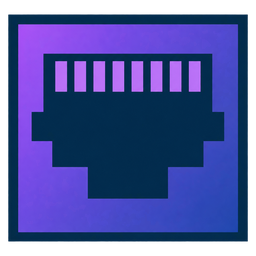
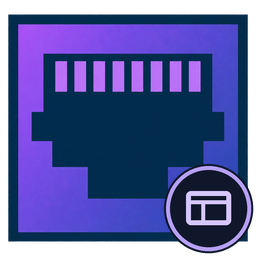
Add package badges to SocketJack and SocketJack.WPF

Changed region(s): [[0.625, 0.625, 1.0, 1.0]]

diff --git a/tools/Export-BrandIcons.py b/tools/Export-BrandIcons.py
@@ -1,6 +1,6 @@
 """Export SocketJack's approved transparent master into PNG and ICO assets.
 
-Requires Python 3 and Pillow. Only dimensions and file formats are changed.
+Requires Python 3 and Pillow. NuGet icons also carry a package badge.
 """
 
 import argparse
@@ -9,14 +9,14 @@ import json
 import struct
 from pathlib import Path
 
-from PIL import Image
+from PIL import Image, ImageDraw
 
 
 PNG_SIZES = (16, 24, 32, 48, 64, 128, 180, 192, 256, 512, 1024)
 ICO_SIZES = (16, 24, 32, 48, 64, 128, 256)
 
 
-def export(master_path: Path, output: Path) -> None:
+def load_master(master_path: Path) -> Image.Image:
     with Image.open(master_path) as source:
         if source.width != source.height or "A" not in source.getbands():
             raise ValueError("The master must be a square PNG with an alpha channel.")
@@ -24,6 +24,11 @@ def export(master_path: Path, output: Path) -> None:
         master.info.clear()
     if master.getchannel("A").getextrema()[0] != 0:
         raise ValueError("The master must retain a transparent background.")
+    return master
+
+
+def export(master_path: Path, output: Path) -> None:
+    master = load_master(master_path)
     output.mkdir(parents=True, exist_ok=True)
     files = []
     for size in PNG_SIZES:
@@ -74,14 +79,49 @@ def export(master_path: Path, output: Path) -> None:
     print(f"Exported {len(files)} icon files and manifest.json.")
 
 
+def export_package_icons(master_path: Path, repo: Path) -> None:
+    size, scale = 256, 4
+    master = load_master(master_path).resize((size, size), Image.Resampling.LANCZOS)
+    glyph = "#D5C7FF"
+
+    def scaled(box):
+        return tuple(value * scale for value in box)
+
+    for package in ("SocketJack", "SocketJack.WPF"):
+        badge = Image.new("RGBA", (size * scale, size * scale))
+        draw = ImageDraw.Draw(badge)
+        draw.ellipse(scaled((164, 164, 253, 253)), fill="#11172B")
+        draw.ellipse(scaled((166, 166, 251, 251)), outline="#B6A1F4", width=4 * scale)
+        if package == "SocketJack":
+            draw.line([scaled(point) for point in ((192, 219), (209, 195), (226, 219))],
+                      fill=glyph, width=5 * scale, joint="curve")
+            for x, y in ((192, 219), (209, 195), (226, 219)):
+                draw.ellipse(scaled((x - 7, y - 7, x + 7, y + 7)), fill=glyph)
+            path = repo / "SocketJack" / "SocketJackIcon.png"
+        else:
+            draw.rounded_rectangle(scaled((186, 191, 231, 225)), radius=5 * scale,
+                                   outline=glyph, width=5 * scale)
+            draw.line(scaled((188, 202, 229, 202)), fill=glyph, width=4 * scale)
+            draw.line(scaled((203, 203, 203, 223)), fill=glyph, width=4 * scale)
+            path = repo / "SocketJack.Windows" / "SocketJackWpfIcon.png"
+        icon = Image.alpha_composite(master, badge.resize((size, size), Image.Resampling.LANCZOS))
+        icon.save(path, format="PNG", optimize=True)
+        print(f"Exported {package} icon to {path}.")
+
+
 if __name__ == "__main__":
+    repo = Path(__file__).resolve().parents[1]
     parser = argparse.ArgumentParser(description=__doc__)
     parser.add_argument(
         "--master",
         type=Path,
-        default=Path(__file__).resolve().parents[1]
-        / "docs/branding/socketjack-icon-master.png",
+        default=repo / "docs/branding/socketjack-icon-master.png",
     )
-    parser.add_argument("--output", type=Path, required=True)
+    mode = parser.add_mutually_exclusive_group(required=True)
+    mode.add_argument("--output", type=Path, help="Write the PNG and ICO size exports to this directory.")
+    mode.add_argument("--package-icons", action="store_true", help="Update the checked-in NuGet package icons.")
     args = parser.parse_args()
-    export(args.master, args.output)
+    if args.package_icons:
+        export_package_icons(args.master, repo)
+    else:
+        export(args.master, args.output)

diff --git a/README.md b/README.md
@@ -1,6 +1,6 @@
 <div align="center">
 
-<img src="https://raw.githubusercontent.com/hheiroww/SocketJack/master/SocketJack/SocketJackIcon.png?v=20261023-purple1" alt="SocketJack" width="128" />
+<img src="https://raw.githubusercontent.com/hheiroww/SocketJack/master/SocketJack/SocketJackIcon.png?v=20261114-badge1" alt="SocketJack" width="128" />
 
 # ⚡ SocketJack 2026
 
@@ -28,13 +28,13 @@ SocketJack is a .NET networking library for sending typed objects, hosting HTTP 
 ## 📦 Install
 
 ```powershell
-dotnet add package SocketJack --version 2026.11.14.0
+dotnet add package SocketJack --version 2026.11.14.1
 ```
 
 | Package | Target | Purpose |
 |---|---|---|
-| **[SocketJack](https://www.nuget.org/packages/SocketJack/2026.11.14.0)** | .NET Standard 2.1 | Core networking library; this release is **2026.11.14.0**. |
-| **[SocketJack.WPF](https://www.nuget.org/packages/SocketJack.WPF/2026.11.14.0)** | Windows / WPF | Companion package for live control capture and remote input; this release is **2026.11.14.0**. |
+| **[SocketJack](https://www.nuget.org/packages/SocketJack/2026.11.14.1)** | .NET Standard 2.1 | Core networking library · **2026.11.14.1** |
+| **[SocketJack.WPF](https://www.nuget.org/packages/SocketJack.WPF/2026.11.14.1)** | Windows / WPF | Live control capture and remote input · **2026.11.14.1** |
 
 <details>
 <summary><strong>🚀 First connection — typed TCP messages</strong></summary>
@@ -79,11 +79,11 @@ Hosts can register typed request handlers and fixed HTTPS or WSS connectors. Aut
 
 This release uses the date code **year.month.day.revision**. It includes the library features below; the install command above selects this exact version.
 
-Download the verified packages and SHA-256 checksums from [GitHub Releases](https://github.com/hheiroww/SocketJack/releases/tag/v2026.11.14.0), or browse both libraries in [GitHub Packages](https://github.com/hheiroww/SocketJack/packages).
+Download the verified packages and SHA-256 checksums from [GitHub Releases](https://github.com/hheiroww/SocketJack/releases/tag/v2026.11.14.1), or browse both libraries in [GitHub Packages](https://github.com/hheiroww/SocketJack/packages).
 
 `GetOnceAsync` and `SendOnceAsync` return a single response, including redirects, so applications can validate each destination before following it. Existing redirect-following methods keep their behavior.
 
-The package and README now use the text-free SocketJack icon with a flat square frame and a restrained diagonal purple-to-dark-blue gradient.
+Version 2026.11.14.1 pairs the SocketJack logo with a networking badge for Core and a window badge for WPF.
 
 | Feature | What changed |
 |---|---|

diff --git a/SocketJack.Windows/Readme.md b/SocketJack.Windows/Readme.md
@@ -1,6 +1,6 @@
 # SocketJack.WPF 2026
 
-![SocketJack WPF Icon](https://raw.githubusercontent.com/hheiroww/SocketJack/master/SocketJack.Windows/SocketJackWpfIcon.png?v=20261023-purple1)
+![SocketJack WPF Icon](https://raw.githubusercontent.com/hheiroww/SocketJack/master/SocketJack.Windows/SocketJackWpfIcon.png?v=20261114-badge1)
 
 [![NuGet](https://img.shields.io/nuget/v/SocketJack.WPF.svg)](https://www.nuget.org/packages/SocketJack.WPF)
 [![NuGet Downloads](https://img.shields.io/nuget/dt/SocketJack.WPF.svg)](https://www.nuget.org/packages/SocketJack.WPF)
@@ -10,27 +10,27 @@ SocketJack.WPF 2026 adds live WPF control sharing, remote input, and browser-fri
 
 Share any `FrameworkElement` as a live image stream, view it from another peer, and route remote mouse, wheel, text, and keyboard input back into WPF without moving the real Windows cursor.
 
-Download the verified packages and SHA-256 checksums from [GitHub Releases](https://github.com/hheiroww/SocketJack/releases/tag/v2026.11.12.0), or browse [GitHub Packages](https://github.com/hheiroww/SocketJack/packages).
+Download the verified packages and SHA-256 checksums from [GitHub Releases](https://github.com/hheiroww/SocketJack/releases/tag/v2026.11.14.1), or browse [GitHub Packages](https://github.com/hheiroww/SocketJack/packages).
 
 <a id="versions"></a>
 ## #Versions
 
 | Package / surface | Version | Target |
 |---|---:|---|
-| [`SocketJack.WPF`](https://www.nuget.org/packages/SocketJack.WPF) | `2026.11.12.0` | `net8.0-windows7.0`, `net10.0-windows7.0` |
-| [`SocketJack`](https://www.nuget.org/packages/SocketJack) | `2026.11.12.0` | `.NET Standard 2.1` |
+| [`SocketJack.WPF`](https://www.nuget.org/packages/SocketJack.WPF) | `2026.11.14.1` | `net8.0-windows7.0`, `net10.0-windows7.0` |
+| [`SocketJack`](https://www.nuget.org/packages/SocketJack) | `2026.11.14.1` | `.NET Standard 2.1` |
 
 <details open>
 <summary><strong>#Install</strong> - add WPF remote control to a SocketJack app</summary>
 
 ```powershell
-dotnet add package SocketJack.WPF --version 2026.11.12.0
+dotnet add package SocketJack.WPF --version 2026.11.14.1
 ```
 
 Or with Package Manager:
 
 ```powershell
-Install-Package SocketJack.WPF -Version 2026.11.12.0
+Install-Package SocketJack.WPF -Version 2026.11.14.1
 ```
 
 Use this package when the network should see, share, or control a WPF UI. Use the core `SocketJack` package by itself when you only need TCP, UDP, HTTP, WebSockets, SQL/data, streaming, and peer routing.
